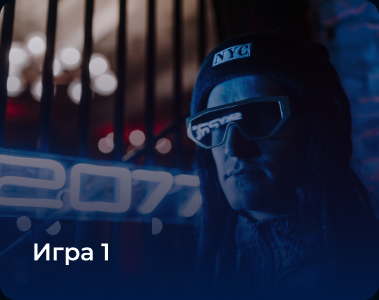
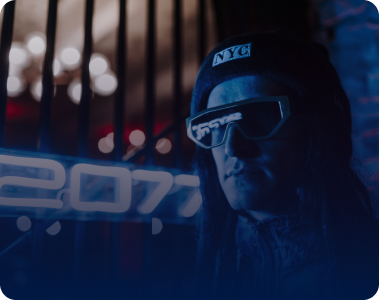
modified menu_link

diff --git a/index.html b/index.html
@@ -22,9 +22,9 @@
         </section>
     </header>
     <div  class="menu">
-        <a class="menu_link" href="#"><img class="menu_img" src="img/game1_back.jpg" alt="Игра 1"></a>
-        <a class="menu_link" href="#"><img class="menu_img" src="img/game2_back.jpg" alt="Игра 2"></a>
-        <a class="menu_link" href="#"><img class="menu_img" src="img/game3_back.jpg" alt="Игра 3"></a>
+        <a class="menu_link" href="#"><img class="menu_img" src="img/game1_back.jpg" alt="Игра 1">Игра 1</a>
+        <a class="menu_link" href="#"><img class="menu_img" src="img/game2_back.jpg" alt="Игра 2">Игра 2</a>
+        <a class="menu_link" href="#"><img class="menu_img" src="img/game3_back.jpg" alt="Игра 3">Игра 3</a>
     </div>
 </body>
 </html>
